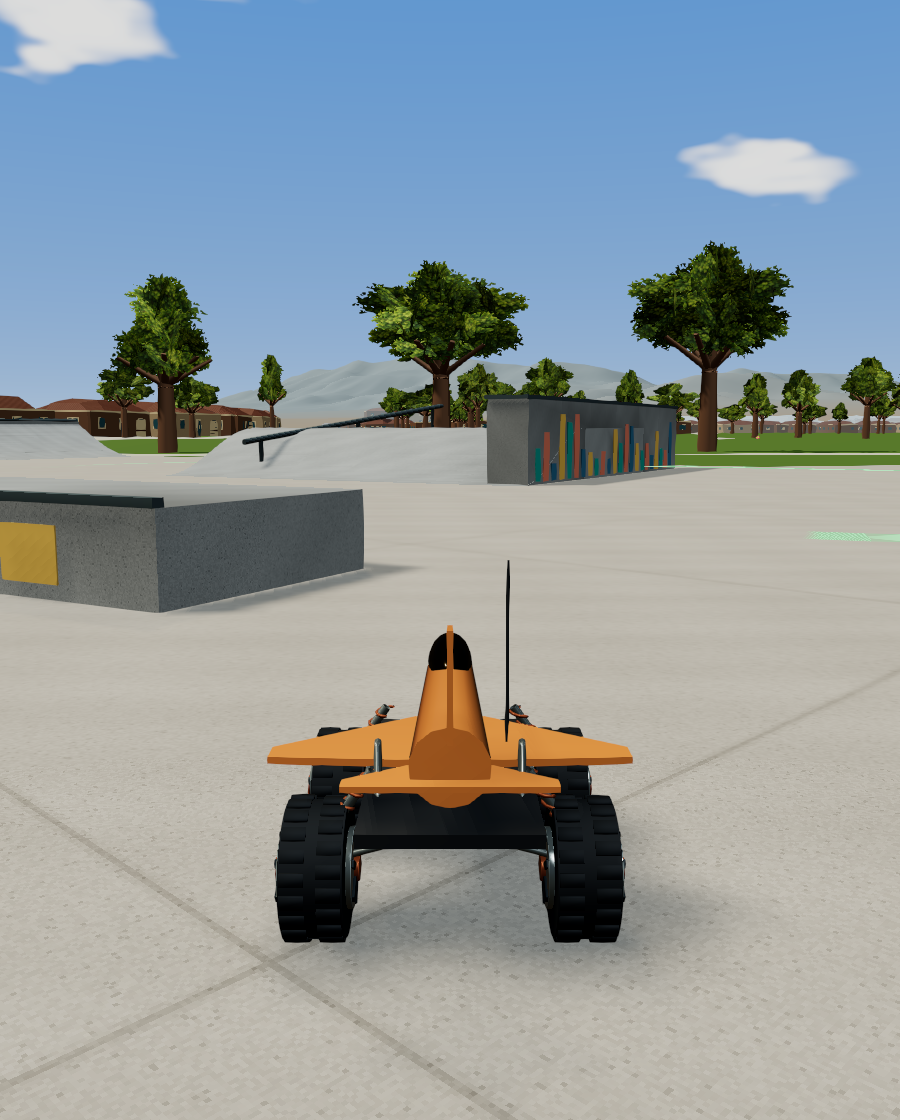
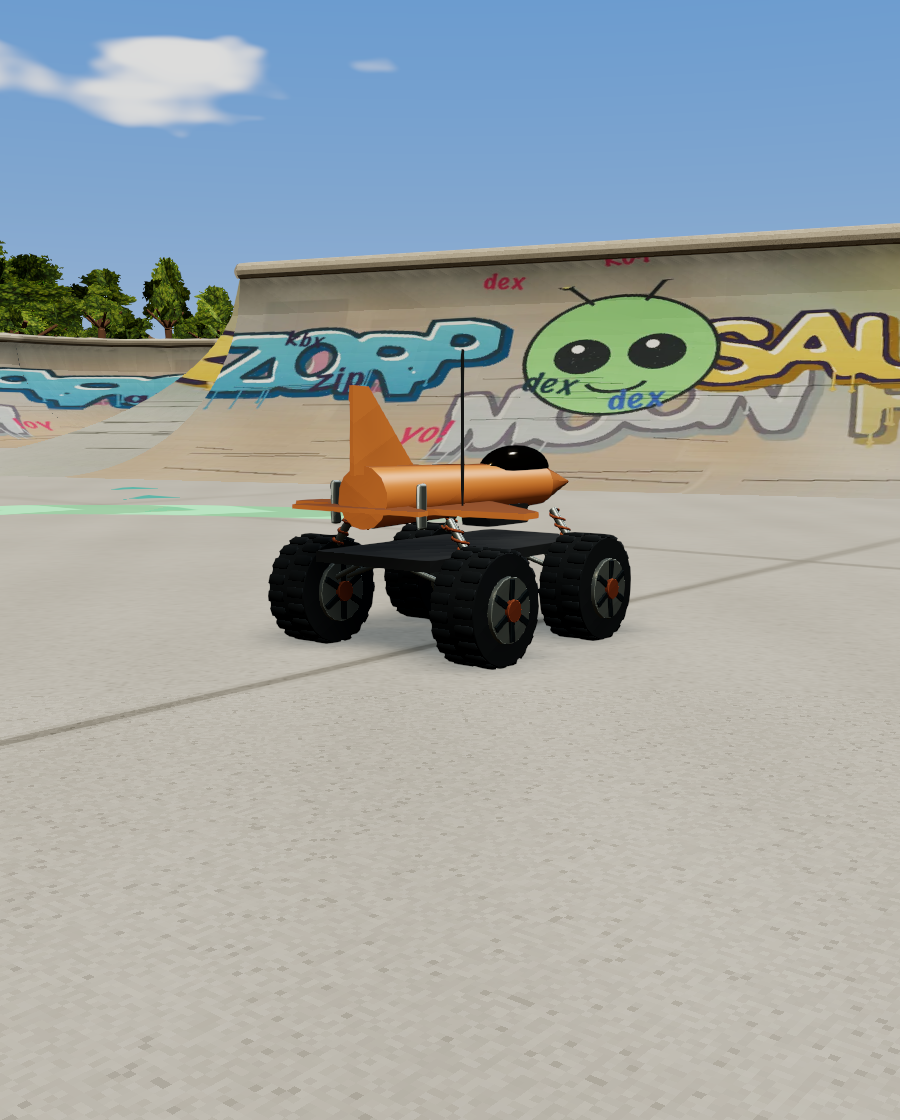
Tidy the front door: composed Saucer Springs card, matching headings, centred cards
- The Saucer Springs card was a flat spawn frame beside two illustrated
  posters. card-art.cjs now composes a low toy's-eye shot of the jet buggy
  facing the repainted alien graffiti quarter; the harness alone patches
  camera and car placement into main.js in flight.
- The card follows its neighbours' pattern: kicker SAUCER SPRINGS AFB, name
  Jet Buggy, then the contract line.
- Desktop cards centre over the console instead of hugging its left edge;
  `safe center` keeps an overflowing phone carousel start-aligned.
- Phone picker actions share one row (auto-fit tracks) instead of 4 + 1.

Claude-Session: https://claude.ai/code/session_018KCkS3JRwugMmnLaBnd4Um

diff --git a/web/wwwroot/index.html b/web/wwwroot/index.html
@@ -4400,7 +4400,9 @@
       grid-template-columns: none;
       grid-auto-flow: column;
       grid-auto-columns: clamp(210px, 22vw, 270px);
+      /* Centre the cards over the console; an overflowing phone carousel stays start-aligned. */
       justify-content: start;
+      justify-content: safe center;
       gap: 16px;
       padding: 3px;
       margin: 0;
@@ -4515,7 +4517,9 @@
     @media (max-width: 760px), (max-height: 500px) and (orientation: landscape) {
       :root #ready-screen .console-actions { display: grid; grid-template-columns: repeat(4, minmax(0, 1fr)); }
       :root #ready-screen .console-actions button:not(.console-primary) { min-height: 72px; gap: 8px; padding: 8px 3px; border-left: 0; font-size: 15px; }
-      :root #ready-screen .console-actions #ready-intro-replay { grid-column: span 2; }
+      /* The picker's five actions share one row; collapsed tracks absorb a hidden intro button. */
+      :root #ready-screen[data-mode="program"] .console-actions { grid-template-columns: repeat(auto-fit, minmax(62px, 1fr)); }
+      :root #ready-screen[data-mode="program"] .console-actions button:not(.console-primary) { font-size: 13px; }
       :root #ready-screen[data-f22-result] .f22-actions .console-primary { grid-column: 1 / -1; min-height: 60px; font-size: 24px; }
     }
     @media (max-height: 500px) and (orientation: landscape) {
@@ -4938,8 +4942,8 @@
             <div class="sortie-option" data-domain="military" data-selected="false" data-program-state="available">
               <!-- The stable area-51 program ID preserves saved selections; the game is Saucer Springs AFB. -->
               <button type="button" class="sortie-choice" data-aircraft="rc" data-program-node="area-51" aria-pressed="false" title="Explore Saucer Springs AFB in an RC car.">
-                <span class="sortie-number"><b data-program-status="area-51"></b></span>
-                <strong>Saucer Springs AFB</strong>
+                <span class="sortie-number">SAUCER SPRINGS AFB <b data-program-status="area-51"></b></span>
+                <strong>Jet Buggy</strong>
                 <small class="sortie-contract">Explore · race · battle</small>
               </button>
             </div>

diff --git a/web/wwwroot/art/SOURCES.md b/web/wwwroot/art/SOURCES.md
@@ -247,12 +247,12 @@ table further down stays the single place a filename is bound to a hash.
 
 ### Saucer Springs AFB picker — CURRENT
 
-- Captured 2026-10-24 from the playable neighbourhood skatepark with `tools/rc/card-art.cjs`; HUD hidden, headless Chromium, silent audio.
+- Captured 2026-10-28 from the playable neighbourhood skatepark with `tools/rc/card-art.cjs`: a composed low toy's-eye shot of the player's jet buggy facing the repainted graffiti quarter (the harness alone patches in camera and car placement); HUD hidden, headless Chromium, silent audio.
 - Epistemic label: `fiction`. This is an actual in-engine frame of the fictional base.
[2 lines of base64/hex data omitted]
 - Encode with `node tools/assets/generators/menu-posters/render.mjs saucer-springs` (cwebp, quality85).
 - Project-authored scene; component asset provenance remains in the RC asset records.
 
 | File | Dimensions | Bytes | SHA-256 | Use |
 | --- | --- | --- | --- | --- |
[2 lines of base64/hex data omitted]
